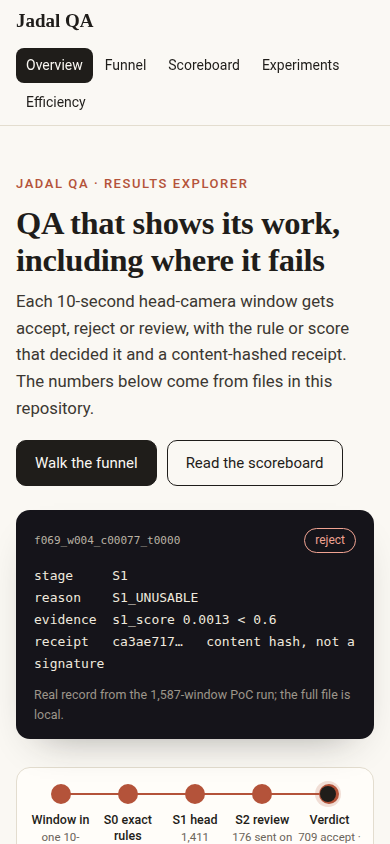
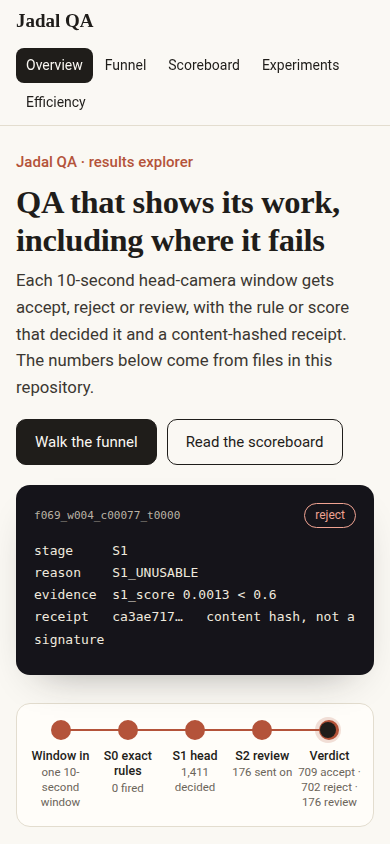
Fix explorer screenshots, add launch preview, tidy registry copy
- Re-capture hero, funnel, scoreboard and mobile with a 15 s virtual
  budget at 1440x1100 (cropped to 1440x900); mobile is the 390x844 fold.
  Re-record the tour GIF from the fixed frames.
- README hero: launch preview GIF (brag_preview.gif, 35 s, no audio) and
  poster; brag.mp4 is intentionally not committed (its bundled music
  licence is unverified). Owner pastes the user-attachments URL into the
  BRAG_VIDEO_URL placeholder.
- README experiment log paragraph: registry on main has 75 experiments;
  the 138 figure is the earlier pod-bundle snapshot and is not mixed in.
- Explorer: drop the 'withdrawn' filter (no registry field supports it),
  label RES.03 as a registry line with results JSON not in repo, use
  sentence case for eyebrows and labels, and align the experiment count.

Changed region(s): [[0.0308, 0.1848, 0.9846, 1.0], [0.8, 0.7085, 0.8615, 0.7701], [0.8923, 0.7085, 0.9231, 0.7701]]

diff --git a/site/src/style.css b/site/src/style.css
@@ -58,14 +58,14 @@ img, svg { max-width: 100%; }
 .pill { font-size: 12px; border-radius: 999px; padding: 2px 10px; border: 1px solid currentColor; }
 .pill.reject { color: #f0a392; }
 .mono { font-family: var(--mono); }
-.kicker { font-size: 13px; letter-spacing: 0.12em; text-transform: uppercase; color: var(--clay); font-weight: 600; margin-bottom: 10px; }
+.kicker { font-size: 15px; letter-spacing: normal; color: var(--clay); font-weight: 600; margin-bottom: 10px; }
 .pitch { font-size: clamp(1.02rem, 0.95rem + 0.4vw, 1.2rem); color: #3b3731; max-width: 58ch; }
 .cta { display: flex; flex-wrap: wrap; gap: 10px; margin-top: 18px; }
 .btn { display: inline-block; text-decoration: none; border: 1px solid var(--ink); border-radius: 10px; padding: 10px 18px; font-size: 15px; color: var(--ink); background: transparent; }
 .btn.primary { background: var(--ink); color: var(--paper); }
 .btn:hover { border-color: var(--clay); color: var(--clay); }
 .btn.primary:hover { background: var(--clay); border-color: var(--clay); color: #fff; }
-.eyebrow { font-family: var(--sans); font-size: 13px; letter-spacing: 0.1em; text-transform: uppercase; color: var(--muted); font-weight: 700; margin: 36px 0 12px; }
+.eyebrow { font-family: var(--sans); font-size: 16px; letter-spacing: normal; text-transform: none; color: var(--ink); font-weight: 600; margin: 36px 0 12px; }
 .fineprint { font-size: 13.5px; color: var(--muted); }
 .fineprint a { color: var(--muted); }
 
@@ -89,7 +89,7 @@ img, svg { max-width: 100%; }
 .tile.warn { border-left: 4px solid var(--amber); }
 .tile.plain { border-left: 4px solid var(--ink); }
 .tile-value { font-family: var(--serif); font-size: clamp(2.2rem, 1.6rem + 2vw, 2.9rem); line-height: 1; margin: 0 0 8px; font-weight: 600; }
-.tile-label { font-family: var(--sans); font-size: 13px; text-transform: uppercase; letter-spacing: 0.08em; color: var(--muted); margin: 0 0 6px; }
+.tile-label { font-family: var(--sans); font-size: 15px; letter-spacing: normal; color: var(--muted); font-weight: 600; margin: 0 0 6px; }
 .tile-note { font-size: 14px; color: #3b3731; margin: 0; }
 
 /* funnel explorer */
@@ -100,12 +100,12 @@ img, svg { max-width: 100%; }
 .stage-panel { background: var(--card); border: 1px solid var(--line); border-radius: var(--rad); padding: 20px; }
 .panel-title { margin-bottom: 10px; }
 .stat { font-weight: 600; }
-.subhead { font-family: var(--sans); font-size: 13px; letter-spacing: 0.08em; text-transform: uppercase; color: var(--muted); margin-top: 18px; }
+.subhead { font-family: var(--sans); font-size: 15px; letter-spacing: normal; color: var(--muted); font-weight: 600; margin-top: 18px; }
 pre.evidence, pre.receipt { background: #15141a; color: #e9e4da; border-radius: 10px; padding: 14px; overflow-x: auto; font-size: 12.5px; line-height: 1.5; white-space: pre; }
 pre.evidence { margin: 12px 0; }
 table { border-collapse: collapse; width: 100%; font-size: 14px; }
 .rules th, .rules td { text-align: left; padding: 7px 8px; border-bottom: 1px solid var(--line); vertical-align: top; }
-.rules th { font-size: 12.5px; color: var(--muted); font-weight: 600; text-transform: uppercase; letter-spacing: 0.06em; }
+.rules th { font-size: 13px; color: var(--muted); font-weight: 600; }
 .rules .src { font-family: var(--mono); font-size: 12px; word-break: break-all; }
 .table-wrap { overflow-x: auto; }
 
@@ -187,7 +187,8 @@ svg.e101 .pt.spatial { fill: var(--faint); }
 
 /* mobile layout: the strip turns vertical, the nav reflows, grids go single-column */
 @media (max-width: 720px) {
-  .hero { grid-template-columns: 1fr; gap: 24px; }
+  .hero { grid-template-columns: 1fr; gap: 20px; padding-top: 24px; }
+  .receipt-card .fineprint { display: none; }
   .bar { justify-content: flex-start; }
   .cols { grid-template-columns: 1fr; }
   .strip { padding: 16px 12px; }

diff --git a/site/src/lib/filters.ts b/site/src/lib/filters.ts
@@ -7,7 +7,6 @@ export const FILTERS = [
   "negative",
   "inconclusive",
   "open",
-  "withdrawn",
 ] as const;
 export type Filter = (typeof FILTERS)[number];
 
@@ -20,7 +19,7 @@ export function isFilter(value: string | null): value is Filter {
 
 /**
  * Filters are derived from the registry's own fields:
- * negative = verdict drop or no; withdrawn = the word appears in any field.
+ * negative = verdict drop or no. Only fields the registry actually has are used.
  */
 export function matchesFilter(row: RegistryRow, filter: Filter): boolean {
   switch (filter) {
@@ -36,8 +35,6 @@ export function matchesFilter(row: RegistryRow, filter: Filter): boolean {
       return row.verdict === "inconclusive";
     case "open":
       return row.status !== "done";
-    case "withdrawn":
-      return `${row.title} ${row.summary}`.toLowerCase().includes("withdrawn");
   }
 }
 

diff --git a/site/src/views/efficiency.ts b/site/src/views/efficiency.ts
@@ -92,7 +92,7 @@ export function efficiencyView(): HTMLElement {
       { className: "chart-card" },
       el("h2", { className: "eyebrow" }, `RES.03 · ${bake.res03.title}`),
       el("p", {}, bake.res03.summary),
-      el("p", { className: "fineprint" }, "Source: ", el("a", { href: repoHref("experiments/registry.jsonl", bake.res03.line) }, `experiments/registry.jsonl:${bake.res03.line}`), ". The results file it names is not in this repo; the figures above come from the registry line only."),
+      el("p", { className: "fineprint" }, "Source: ", el("a", { href: repoHref("experiments/registry.jsonl", bake.res03.line) }, `experiments/registry.jsonl:${bake.res03.line}`), " (registry line; results JSON not in repo)."),
     ),
   );
 }

diff --git a/site/src/lib/lib.test.ts b/site/src/lib/lib.test.ts
@@ -77,7 +77,6 @@ describe("filters derive from registry fields", () => {
     row("Z3.02", { verdict: "no" }),
     row("E5.04", { verdict: "inconclusive" }),
     row("E4.01", { status: "running", verdict: null }),
-    row("E9.01", { title: "Spatial localisation WITHDRAWN" }),
   ];
 
   it("negative means verdict drop or no", () => {
@@ -87,10 +86,6 @@ describe("filters derive from registry fields", () => {
 
   it("open means not done", () => {
     expect(countBy(rows, "open")).toBe(1);
-  });
-
-  it("withdrawn matches the word in any text field", () => {
-    expect(countBy(rows, "withdrawn")).toBe(1);
   });
 
   it("search matches id, title, summary and track, case-insensitively", () => {

diff --git a/site/src/views/home.ts b/site/src/views/home.ts
@@ -100,7 +100,7 @@ export function homeView(still: number | null): HTMLElement {
       el(
         "p",
         { className: "fineprint" },
-        `${bake.registry_unique} experiments in the log (${bake.registry_lines} lines, latest line per id). `,
+        `${bake.registry_unique} experiments on main (experiments/registry.jsonl, latest line per id). `,
         el("a", { href: "#/experiments" }, "Browse the log"),
         ".",
       ),

diff --git a/README.md b/README.md
@@ -2,12 +2,17 @@
 
 **QA for head-camera factory video that shows its evidence — including when it fails.**
 
-<!-- BRAG_VIDEO: placeholder. Owner: upload docs/assets/brag.mp4 in the GitHub editor (drag it into a comment box to get a user-attachments URL), then replace this line and the link target below with that URL for inline playback. -->
-[![Jadal QA launch video (click to play)](docs/assets/ui_tour.gif)](docs/assets/brag.mp4)
+<!-- BRAG_VIDEO_URL: paste the GitHub user-attachments URL of brag.mp4 here -->
+
+![Launch video: QA that shows its work, including where it fails](docs/assets/brag_preview.gif)
+
+*Launch video (35 s). Full video with sound: see the Releases page / upload placeholder.* Poster: [`docs/assets/brag_poster.jpg`](docs/assets/brag_poster.jpg).
 
 [![Jadal QA results explorer: funnel, scoreboard and experiment log](docs/assets/ui_hero.png)](https://parswanadh.github.io/jadal-qa/)
 
 *The explorer is a static TypeScript app in [`site/`](site/). It is live at the link above once GitHub Pages is enabled for this repository.*
+
+![Explorer tour: funnel stages, scoreboard, experiment log](docs/assets/ui_tour.gif)
 
 ### Run the explorer locally
 
@@ -195,10 +200,7 @@ deterministic merge gate that runs the full suite on the merged tree
 (`jadal/config.py`, `jadal/__init__.py`, `docs/SPEC.md`, `docs/BASELINE.md`)
 are untouched by docs work.
 
-**Experiment log.** No `experiments/registry.jsonl` on this branch. The pod-bundle
-snapshot lists 138 experiment/component ids (E/L/B series); continue E-series ids
-and merge by id, append-only. See `docs/pod/SYNC_UPDATE_2026-10-10_2145.md:50`
-and `docs/process/decision-log.md`.
+**Experiment log.** The registry on `main` (`experiments/registry.jsonl`) has 75 experiments, latest line per id. An earlier snapshot in the pod bundle lists 138 experiment/component ids (E/L/B series); the two numbers are different sources and are not mixed. See `docs/pod/SYNC_UPDATE_2026-10-10_2145.md:50` and `docs/process/decision-log.md`.
 
 **Edge tier.** The edge path pulls numpy, cv2, scipy, pillow + ImageHash — and no
 torch, transformers, sklearn, fastapi, or CUDA (`docs/reports/edge.md`,
